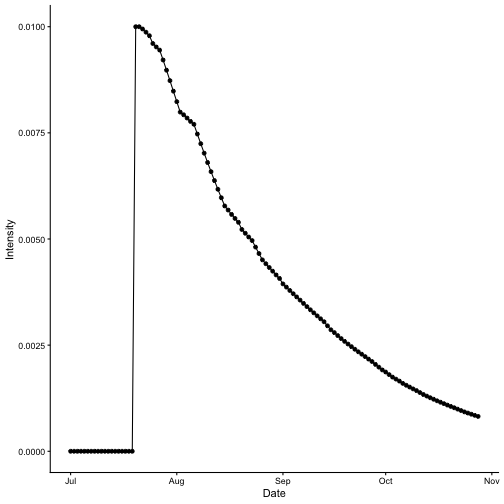
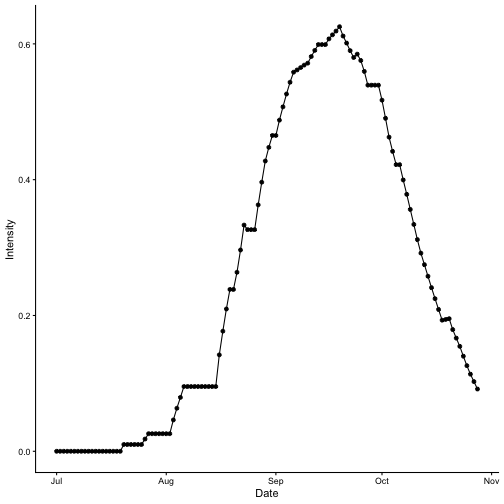
update seir() to fix bug where disease did not progress properly

diff --git a/tests/testthat/_snaps/disease_models_wheat.md b/tests/testthat/_snaps/disease_models_wheat.md
@@ -16,7 +16,7 @@
         "AUDPC": {
           "type": "double",
           "attributes": {},
-          "value": [1.63069954]
+          "value": [60.91294815]
         },
         "class": {
           "type": "character",
@@ -38,32 +38,22 @@
         {
           "type": "double",
           "attributes": {},
-          "value": [250, 250, 250, 250, 250, 250, 250, 250, 250, 250, 250, 250, 250, 250, 250, 250, 250, 250, 250, 240, 240, 239.9959, 239.9832, 239.96, 239.96, 239.919, 239.8647, 239.8647, 239.8647, 239.8647, 239.8647, 239.8647, 239.8647, 239.7873, 239.7023, 239.6177, 239.5421, 239.5421, 239.5421, 239.5421, 239.5421, 239.5421, 239.5421, 239.5421, 239.5421, 239.5421, 239.503, 239.4703, 239.4342, 239.3982, 239.3982, 239.365, 239.3338, 239.3009, 239.3009, 239.3009, 239.3009, 239.2803, 239.2605, 239.2409, 239.223, 239.2043, 239.2043, 239.1846, 239.1645, 239.1474, 239.1304, 239.116, 239.1032, 239.0911, 239.0788, 239.0668, 239.055, 239.043, 239.0317, 239.0317, 239.0317, 239.0228, 239.0172, 239.0123, 239.0058, 238.9993, 238.9929, 238.9873, 238.9813, 238.9754, 238.97, 238.9664, 238.9623, 238.9623, 238.9623, 238.9623, 238.9584, 238.9584, 238.9584, 238.9555, 238.9525, 238.9525, 238.9499, 238.9475, 238.9452, 238.943, 238.943, 238.943, 238.9414, 238.9398, 238.9385, 238.9371, 238.9358, 238.9346, 238.9335, 238.9323, 238.9313, 238.9313, 238.9313, 238.9313, 238.9305, 238.9298, 238.9291, 238.9284]
+          "value": [250, 250, 250, 250, 250, 250, 250, 250, 250, 250, 250, 250, 250, 250, 250, 250, 250, 250, 250, 240, 240, 240, 240, 240, 240, 240, 240, 240, 240, 240, 240, 240, 240, 235.7334, 231.1068, 226.5554, 222.5098, 222.5098, 222.5098, 222.5098, 222.5098, 222.5098, 222.5098, 222.5098, 222.5098, 222.5098, 214.5776, 207.8569, 200.2861, 192.6338, 192.6338, 185.1689, 178.0513, 170.4744, 170.4744, 170.4744, 170.4744, 158.83, 149.7337, 139.3953, 128.9001, 116.8571, 116.8571, 104.1069, 91.8183, 80.4957, 68.9562, 59.0688, 50.2706, 42.0487, 34.6688, 27.7032, 21.6587, 16.3249, 12.1342, 12.1342, 12.1342, 8.828, 7.1918, 5.8709, 4.3491, 3.1104, 2.1757, 1.5649, 1.0679, 0.7265, 0.5023, 0.3977, 0.3015, 0.3015, 0.3015, 0.3015, 0.2225, 0.2225, 0.2225, 0.1703, 0.129, 0.129, 0.1026, 0.0832, 0.0686, 0.0567, 0.0567, 0.0567, 0.0505, 0.0457, 0.0423, 0.0394, 0.0372, 0.0355, 0.0341, 0.033, 0.0323, 0.0323, 0.0323, 0.0323, 0.0319, 0.0316, 0.0313, 0.0312]
         },
         {
           "type": "double",
           "attributes": {},
-          "value": [0, 0, 0, 0, 0, 0, 0, 0, 0, 0, 0, 0, 0, 0, 0, 0, 0, 0, 0, 10, 8.5714, 7.351, 6.3136, 5.4349, 4.6585, 4.0339, 3.512, 3.0103, 2.5802, 2.2116, 1.8957, 1.6249, 1.3927, 1.2711, 1.1746, 1.0914, 1.0111, 0.8667, 0.7429, 0.6367, 0.5458, 0.4678, 0.401, 0.3437, 0.2946, 0.2525, 0.2555, 0.2517, 0.2518, 0.2519, 0.2159, 0.2182, 0.2183, 0.2199, 0.1885, 0.1616, 0.1385, 0.1393, 0.1393, 0.1389, 0.137, 0.1362, 0.1167, 0.1197, 0.1228, 0.1223, 0.1218, 0.1188, 0.1147, 0.1104, 0.1069, 0.1037, 0.1006, 0.0982, 0.0955, 0.0819, 0.0702, 0.0691, 0.0647, 0.0605, 0.0583, 0.0565, 0.0548, 0.0526, 0.0511, 0.0496, 0.048, 0.0447, 0.0424, 0.0364, 0.0312, 0.0267, 0.0268, 0.023, 0.0197, 0.0198, 0.0199, 0.0171, 0.0172, 0.0172, 0.0171, 0.0168, 0.0144, 0.0123, 0.0122, 0.0121, 0.0117, 0.0114, 0.011, 0.0106, 0.0103, 0.0099, 0.0096, 0.0082, 0.007, 0.006, 0.0059, 0.0058, 0.0057, 0.0056]
+          "value": [0, 0, 0, 0, 0, 0, 0, 0, 0, 0, 0, 0, 0, 0, 0, 0, 0, 0, 0, 10, 10, 10, 10, 10, 10, 10, 0, 0, 0, 0, 0, 0, 0, 4.2666, 8.8932, 13.4446, 17.4902, 17.4902, 17.4902, 17.4902, 13.2236, 8.5969, 4.0455, 0, 0, 0, 7.9322, 14.653, 22.2237, 29.876, 29.876, 37.3409, 44.4586, 44.1032, 37.3825, 29.8118, 22.1595, 33.8038, 35.4353, 38.656, 41.5743, 53.6173, 53.6173, 66.3675, 67.0118, 69.238, 70.4391, 69.8313, 66.5865, 74.8083, 69.4381, 64.1151, 58.837, 52.6313, 46.9346, 38.1364, 29.9146, 25.8408, 20.5114, 15.7878, 11.9758, 9.0238, 9.9585, 10.5692, 7.7602, 6.4653, 5.3686, 3.9514, 2.8088, 1.8742, 1.2634, 0.7663, 0.504, 0.2798, 0.1752, 0.1312, 0.1725, 0.1725, 0.1989, 0.1393, 0.1539, 0.1658, 0.1136, 0.0723, 0.0785, 0.057, 0.0408, 0.0292, 0.0195, 0.0212, 0.0226, 0.0175, 0.0134, 0.0101, 0.0071, 0.0049, 0.0036, 0.0025, 0.0017, 0.0011]
         },
         {
           "type": "double",
           "attributes": {},
-          "value": [0, 0, 0, 0, 0, 0, 0, 0, 0, 0, 0, 0, 0, 0, 0, 0, 0, 0, 0, 0, 1.4286, 2.607, 3.573, 4.3597, 4.9955, 5.4998, 5.8987, 6.2101, 6.4398, 6.6007, 6.7037, 6.7583, 6.7724, 6.7529, 6.7167, 6.6678, 6.6086, 6.5399, 6.4527, 6.3507, 6.2368, 6.1136, 5.9832, 5.8475, 5.7079, 5.5659, 5.4224, 5.284, 5.1495, 5.0194, 4.8934, 4.7664, 4.6438, 4.5252, 4.4107, 4.2953, 4.1798, 4.0648, 3.9536, 3.8459, 3.7417, 3.6406, 3.5426, 3.445, 3.351, 3.2604, 3.1727, 3.0878, 3.0051, 2.9246, 2.846, 2.7695, 2.6949, 2.6224, 2.5518, 2.4831, 2.4147, 2.3469, 2.281, 2.2167, 2.1538, 2.0927, 2.0332, 1.9755, 1.9193, 1.8647, 1.8116, 1.76, 1.7096, 1.6605, 1.6122, 1.5646, 1.518, 1.4728, 1.4286, 1.3853, 1.3434, 1.303, 1.2634, 1.2251, 1.188, 1.1521, 1.1174, 1.0834, 1.0502, 1.0181, 0.9869, 0.9568, 0.9275, 0.8992, 0.8717, 0.845, 0.8192, 0.7941, 0.7697, 0.7459, 0.7227, 0.7002, 0.6785, 0.6574]
+          "value": [0, 0, 0, 0, 0, 0, 0, 0, 0, 0, 0, 0, 0, 0, 0, 0, 0, 0, 0, 0, 0, 0, 0, 0, 0, 0, 10, 10, 10, 10, 10, 10, 10, 10, 10, 10, 10, 10, 10, 10, 14.2666, 18.8932, 23.4446, 27.4902, 27.4902, 27.4902, 27.4902, 27.4902, 27.4902, 27.4902, 27.4902, 27.4902, 27.4902, 35.4224, 42.1431, 49.7139, 57.3662, 47.3662, 54.8311, 61.9487, 69.5256, 69.5256, 69.5256, 69.5256, 81.17, 90.2663, 100.6047, 111.0999, 123.1429, 123.1429, 135.8931, 143.9152, 150.6111, 157.5991, 163.441, 172.2393, 180.4611, 187.841, 194.8066, 200.8511, 206.185, 210.3757, 210.3757, 210.3757, 205.7496, 200.6651, 194.4153, 188.2848, 189.5235, 182.9932, 176.4864, 169.4065, 169.7479, 169.9721, 170.0767, 158.5285, 149.4322, 139.0938, 128.5986, 116.6346, 116.6346, 103.8844, 91.6479, 80.3666, 68.8272, 58.9662, 50.1874, 41.9801, 34.6121, 27.6465, 21.602, 16.2744, 12.0885, 12.0918, 12.0948, 8.7909, 7.1563, 5.8367, 4.316, 3.0781]
         },
         {
           "type": "double",
           "attributes": {},
-          "value": [0, 0, 0, 0, 0, 0, 0, 0, 0, 0, 0, 0, 0, 0, 0, 0, 0, 0, 0, 0, 0, 0.0461, 0.1302, 0.2454, 0.3861, 0.5472, 0.7246, 0.9149, 1.1152, 1.323, 1.5359, 1.7522, 1.9702, 2.1886, 2.4065, 2.6231, 2.8382, 3.0514, 3.2624, 3.4705, 3.6754, 3.8766, 4.0738, 4.2668, 4.4554, 4.6395, 4.8191, 4.994, 5.1644, 5.3306, 5.4925, 5.6503, 5.8041, 5.9539, 6.0999, 6.2421, 6.3807, 6.5155, 6.6467, 6.7742, 6.8983, 7.019, 7.1364, 7.2507, 7.3618, 7.4699, 7.5751, 7.6774, 7.777, 7.874, 7.9683, 8.0601, 8.1494, 8.2364, 8.321, 8.4033, 8.4834, 8.5613, 8.637, 8.7106, 8.7821, 8.8516, 8.9191, 8.9847, 9.0484, 9.1103, 9.1704, 9.2289, 9.2857, 9.3408, 9.3944, 9.4464, 9.4968, 9.5458, 9.5933, 9.6394, 9.6841, 9.7274, 9.7695, 9.8102, 9.8497, 9.8881, 9.9252, 9.9613, 9.9962, 10.0301, 10.0629, 10.0948, 10.1256, 10.1556, 10.1846, 10.2127, 10.2399, 10.2664, 10.292, 10.3168, 10.3409, 10.3642, 10.3868, 10.4087]
-        },
-        {
-          "type": "double",
-          "attributes": {},
-          "value": [0, 0, 0, 0, 0, 0, 0, 0, 0, 0, 0, 0, 0, 0, 0, 0, 0, 0, 0, 0, 0, 0, 0, 0, 0, 0, 0, 0, 0, 0, 0, 0, 0, 0, 0, 0, 0, 0, 0, 0, 0, 0, 0, 0, 0, 0, 0, 0, 0, 0, 0, 0, 0, 0, 0, 0, 0, 0, 0, 0, 0, 0, 0, 0, 0, 0, 0, 0, 0, 0, 0, 0, 0, 0, 0, 0, 0, 0, 0, 0, 0, 0, 0, 0, 0, 0, 0, 0, 0, 0, 0, 0, 0, 0, 0, 0, 0, 0, 0, 0, 0, 0, 0, 0, 0, 0, 0, 0, 0, 0, 0, 0, 0, 0, 0, 0, 0, 0, 0, 0]
-        },
-        {
-          "type": "double",
-          "attributes": {},
-          "value": [0, 0, 0, 0, 0, 0, 0, 0, 0, 0, 0, 0, 0, 0, 0, 0, 0, 0, 0, 10, 0, 0.0041, 0.0127, 0.0232, 0, 0.041, 0.0543, 0, 0, 0, 0, 0, 0, 0.0774, 0.0851, 0.0846, 0.0757, 0, 0, 0, 0, 0, 0, 0, 0, 0, 0.0391, 0.0326, 0.0361, 0.036, 0, 0.0331, 0.0312, 0.0329, 0, 0, 0, 0.0206, 0.0198, 0.0196, 0.0179, 0.0188, 0, 0.0197, 0.0202, 0.0171, 0.0169, 0.0144, 0.0128, 0.0121, 0.0123, 0.0121, 0.0117, 0.012, 0.0113, 0, 0, 0.0089, 0.0055, 0.005, 0.0064, 0.0065, 0.0064, 0.0056, 0.006, 0.0058, 0.0055, 0.0036, 0.0041, 0, 0, 0, 0.0039, 0, 0, 0.0029, 0.003, 0, 0.0026, 0.0024, 0.0023, 0.0022, 0, 0, 0.0016, 0.0016, 0.0013, 0.0014, 0.0013, 0.0012, 0.0011, 0.0012, 0.001, 0, 0, 0, 0.0008, 0.0008, 0.0007, 0.0007]
+          "value": [0, 0, 0, 0, 0, 0, 0, 0, 0, 0, 0, 0, 0, 0, 0, 0, 0, 0, 0, 0, 0, 0, 0, 0, 0, 0, 0, 0, 0, 0, 0, 0, 0, 0, 0, 0, 0, 0, 0, 0, 0, 0, 0, 0, 0, 0, 0, 0, 0, 0, 0, 0, 0, 0, 0, 0, 0, 10, 10, 10, 10, 10, 10, 10, 10, 10, 10, 10, 10, 10, 10, 14.2666, 18.8932, 23.4446, 27.4902, 27.4902, 27.4902, 27.4902, 27.4902, 27.4902, 27.4902, 27.4902, 27.4902, 27.4902, 35.4224, 42.1431, 49.7139, 57.3662, 57.3662, 64.8311, 71.9487, 79.5256, 79.5256, 79.5256, 79.5256, 91.17, 100.2663, 110.6047, 121.0999, 133.1429, 133.1429, 145.8931, 158.1817, 169.5043, 181.0438, 190.9312, 199.7294, 207.9513, 215.3312, 222.2968, 228.3413, 233.6751, 237.8658, 237.8658, 237.8658, 241.172, 242.8082, 244.1291, 245.6509, 246.8896]
         },
         {
           "type": "double",
@@ -73,12 +63,22 @@
         {
           "type": "double",
           "attributes": {},
-          "value": [0, 0, 0, 0, 0, 0, 0, 0, 0, 0, 0, 0, 0, 0, 0, 0, 0, 0, 0, 0, 1.4286, 1.2245, 1.0501, 0.9019, 0.7764, 0.6655, 0.5763, 0.5017, 0.43, 0.3686, 0.3159, 0.2708, 0.2321, 0.199, 0.1816, 0.1678, 0.1559, 0.1444, 0.1238, 0.1061, 0.091, 0.078, 0.0668, 0.0573, 0.0491, 0.0421, 0.0361, 0.0365, 0.036, 0.036, 0.036, 0.0308, 0.0312, 0.0312, 0.0314, 0.0269, 0.0231, 0.0198, 0.0199, 0.0199, 0.0198, 0.0196, 0.0195, 0.0167, 0.0171, 0.0175, 0.0175, 0.0174, 0.017, 0.0164, 0.0158, 0.0153, 0.0148, 0.0144, 0.014, 0.0136, 0.0117, 0.01, 0.0099, 0.0092, 0.0086, 0.0083, 0.0081, 0.0078, 0.0075, 0.0073, 0.0071, 0.0069, 0.0064, 0.0061, 0.0052, 0.0045, 0.0038, 0.0038, 0.0033, 0.0028, 0.0028, 0.0028, 0.0024, 0.0025, 0.0025, 0.0024, 0.0024, 0.0021, 0.0018, 0.0017, 0.0017, 0.0017, 0.0016, 0.0016, 0.0015, 0.0015, 0.0014, 0.0014, 0.0012, 0.001, 0.0009, 0.0008, 0.0008, 0.0008]
+          "value": [0, 0, 0, 0, 0, 0, 0, 0, 0, 0, 0, 0, 0, 0, 0, 0, 0, 0, 0, 10, 0, 0, 0, 0, 0, 0, 0, 0, 0, 0, 0, 0, 0, 4.2666, 4.6267, 4.5514, 4.0455, 0, 0, 0, 0, 0, 0, 0, 0, 0, 7.9322, 6.7207, 7.5707, 7.6523, 0, 7.4649, 7.1177, 7.5769, 0, 0, 0, 11.6443, 9.0964, 10.3384, 10.4952, 12.043, 0, 12.7502, 12.2886, 11.3226, 11.5395, 9.8874, 8.7982, 8.2218, 7.3799, 6.9656, 6.0445, 5.3338, 4.1907, 0, 0, 3.3061, 1.6362, 1.321, 1.5218, 1.2387, 0.9347, 0.6108, 0.4971, 0.3414, 0.2242, 0.1046, 0.0962, 0, 0, 0, 0.079, 0, 0, 0.0521, 0.0413, 0, 0.0264, 0.0194, 0.0146, 0.0119, 0, 0, 0.0062, 0.0048, 0.0033, 0.003, 0.0022, 0.0017, 0.0013, 0.0011, 0.0008, 0, 0, 0, 0.0004, 0.0003, 0.0002, 0.0002]
         },
         {
           "type": "double",
           "attributes": {},
-          "value": [0, 0, 0, 0, 0, 0, 0, 0, 0, 0, 0, 0, 0, 0, 0, 0, 0, 0, 0, 0, 0, 0.0461, 0.0841, 0.1153, 0.1406, 0.1611, 0.1774, 0.1903, 0.2003, 0.2077, 0.2129, 0.2162, 0.218, 0.2185, 0.2178, 0.2167, 0.2151, 0.2132, 0.211, 0.2082, 0.2049, 0.2012, 0.1972, 0.193, 0.1886, 0.1841, 0.1795, 0.1749, 0.1705, 0.1661, 0.1619, 0.1579, 0.1538, 0.1498, 0.146, 0.1423, 0.1386, 0.1348, 0.1311, 0.1275, 0.1241, 0.1207, 0.1174, 0.1143, 0.1111, 0.1081, 0.1052, 0.1023, 0.0996, 0.0969, 0.0943, 0.0918, 0.0893, 0.0869, 0.0846, 0.0823, 0.0801, 0.0779, 0.0757, 0.0736, 0.0715, 0.0695, 0.0675, 0.0656, 0.0637, 0.0619, 0.0602, 0.0584, 0.0568, 0.0551, 0.0536, 0.052, 0.0505, 0.049, 0.0475, 0.0461, 0.0447, 0.0433, 0.042, 0.0408, 0.0395, 0.0383, 0.0372, 0.036, 0.0349, 0.0339, 0.0328, 0.0318, 0.0309, 0.0299, 0.029, 0.0281, 0.0273, 0.0264, 0.0256, 0.0248, 0.0241, 0.0233, 0.0226, 0.0219]
+          "value": [0, 0, 0, 0, 0, 0, 0, 0, 0, 0, 0, 0, 0, 0, 0, 0, 0, 0, 0, 0, 0, 0, 0, 0, 0, 0, 0, 0, 0, 0, 0, 0, 0, 0, 0, 0, 0, 0, 0, 0, 0, 0, 0, 0, 0, 0, 0, 0, 0, 0, 0, 0, 0, 0, 0, 0, 0, 0, 0, 0, 0, 0, 0, 0, 0, 0, 0, 0, 0, 0, 0, 0, 0, 0, 0, 0, 0, 0, 0, 0, 0, 0, 0, 0, 0, 0, 0, 0, 0, 0, 0, 0, 0, 0, 0, 0, 0, 0, 0, 0, 0, 0, 0, 0, 0, 0, 0, 0, 0, 0, 0, 0, 0, 0, 0, 0, 0, 0, 0, 0]
+        },
+        {
+          "type": "double",
+          "attributes": {},
+          "value": [0, 0, 0, 0, 0, 0, 0, 0, 0, 0, 0, 0, 0, 0, 0, 0, 0, 0, 0, 0, 0, 0, 0, 0, 0, 0, 10, 0, 0, 0, 0, 0, 0, 0, 0, 0, 0, 0, 0, 0, 4.2666, 4.6267, 4.5514, 4.0455, 0, 0, 0, 0, 0, 0, 0, 0, 0, 7.9322, 6.7207, 7.5707, 7.6523, 0, 7.4649, 7.1177, 7.5769, 0, 0, 0, 11.6443, 9.0964, 10.3384, 10.4952, 12.043, 0, 12.7502, 12.2886, 11.3226, 11.5395, 9.8874, 8.7982, 8.2218, 7.3799, 6.9656, 6.0445, 5.3338, 4.1907, 0, 0, 3.3061, 1.6362, 1.321, 1.5218, 1.2387, 0.9347, 0.6108, 0.4971, 0.3414, 0.2242, 0.1046, 0.0962, 0, 0, 0, 0.079, 0, 0, 0.0521, 0.0413, 0, 0.0264, 0.0194, 0.0146, 0.0119, 0, 0, 0.0062, 0.0048, 0.0033, 0.003, 0.0022, 0.0017, 0.0013, 0.0011, 0.0008]
+        },
+        {
+          "type": "double",
+          "attributes": {},
+          "value": [0, 0, 0, 0, 0, 0, 0, 0, 0, 0, 0, 0, 0, 0, 0, 0, 0, 0, 0, 0, 0, 0, 0, 0, 0, 0, 0, 0, 0, 0, 0, 0, 0, 0, 0, 0, 0, 0, 0, 0, 0, 0, 0, 0, 0, 0, 0, 0, 0, 0, 0, 0, 0, 0, 0, 0, 0, 10, 0, 0, 0, 0, 0, 0, 0, 0, 0, 0, 0, 0, 0, 4.2666, 4.6267, 4.5514, 4.0455, 0, 0, 0, 0, 0, 0, 0, 0, 0, 7.9322, 6.7207, 7.5707, 7.6523, 0, 7.4649, 7.1177, 7.5769, 0, 0, 0, 11.6443, 9.0964, 10.3384, 10.4952, 12.043, 0, 12.7502, 12.2886, 11.3226, 11.5395, 9.8874, 8.7982, 8.2218, 7.3799, 6.9656, 6.0445, 5.3338, 4.1907, 0, 0, 3.3061, 1.6362, 1.321, 1.5218, 1.2387]
         },
         {
           "type": "double",
@@ -93,12 +93,12 @@
         {
           "type": "double",
           "attributes": {},
-          "value": [0, 0, 0, 0, 0, 0, 0, 0, 0, 0, 0, 0, 0, 0, 0, 0, 0, 0, 0, 10, 10, 10.0041, 10.0168, 10.04, 10.04, 10.081, 10.1353, 10.1353, 10.1353, 10.1353, 10.1353, 10.1353, 10.1353, 10.2127, 10.2977, 10.3823, 10.4579, 10.4579, 10.4579, 10.4579, 10.4579, 10.4579, 10.4579, 10.4579, 10.4579, 10.4579, 10.497, 10.5297, 10.5658, 10.6018, 10.6018, 10.635, 10.6662, 10.6991, 10.6991, 10.6991, 10.6991, 10.7197, 10.7395, 10.7591, 10.777, 10.7957, 10.7957, 10.8154, 10.8355, 10.8526, 10.8696, 10.884, 10.8968, 10.9089, 10.9212, 10.9332, 10.945, 10.957, 10.9683, 10.9683, 10.9683, 10.9772, 10.9828, 10.9877, 10.9942, 11.0007, 11.0071, 11.0127, 11.0187, 11.0246, 11.03, 11.0336, 11.0377, 11.0377, 11.0377, 11.0377, 11.0416, 11.0416, 11.0416, 11.0445, 11.0475, 11.0475, 11.0501, 11.0525, 11.0548, 11.057, 11.057, 11.057, 11.0586, 11.0602, 11.0615, 11.0629, 11.0642, 11.0654, 11.0665, 11.0677, 11.0687, 11.0687, 11.0687, 11.0687, 11.0695, 11.0702, 11.0709, 11.0716]
+          "value": [0, 0, 0, 0, 0, 0, 0, 0, 0, 0, 0, 0, 0, 0, 0, 0, 0, 0, 0, 10, 10, 10, 10, 10, 10, 10, 10, 10, 10, 10, 10, 10, 10, 14.2666, 18.8932, 23.4446, 27.4902, 27.4902, 27.4902, 27.4902, 27.4902, 27.4902, 27.4902, 27.4902, 27.4902, 27.4902, 35.4224, 42.1431, 49.7139, 57.3662, 57.3662, 64.8311, 71.9487, 79.5256, 79.5256, 79.5256, 79.5256, 91.17, 100.2663, 110.6047, 121.0999, 133.1429, 133.1429, 145.8931, 158.1817, 169.5043, 181.0438, 190.9312, 199.7294, 207.9513, 215.3312, 222.2968, 228.3413, 233.6751, 237.8658, 237.8658, 237.8658, 241.172, 242.8082, 244.1291, 245.6509, 246.8896, 247.8243, 248.4351, 248.9321, 249.2735, 249.4977, 249.6023, 249.6985, 249.6985, 249.6985, 249.6985, 249.7775, 249.7775, 249.7775, 249.8297, 249.871, 249.871, 249.8974, 249.9168, 249.9314, 249.9433, 249.9433, 249.9433, 249.9495, 249.9543, 249.9577, 249.9606, 249.9628, 249.9645, 249.9659, 249.967, 249.9677, 249.9677, 249.9677, 249.9677, 249.9681, 249.9684, 249.9687, 249.9688]
         },
         {
           "type": "double",
           "attributes": {},
-          "value": [0, 0, 0, 0, 0, 0, 0, 0, 0, 0, 0, 0, 0, 0, 0, 0, 0, 0, 0, 0.04, 0.04, 0.0398, 0.0396, 0.0392, 0.0387, 0.0382, 0.0378, 0.037, 0.0362, 0.0354, 0.0346, 0.0338, 0.0329, 0.0324, 0.0319, 0.0314, 0.0308, 0.03, 0.0292, 0.0283, 0.0275, 0.0267, 0.026, 0.0252, 0.0244, 0.0237, 0.0232, 0.0226, 0.0221, 0.0215, 0.0209, 0.0204, 0.0199, 0.0194, 0.0189, 0.0183, 0.0177, 0.0173, 0.0168, 0.0164, 0.016, 0.0155, 0.0151, 0.0147, 0.0143, 0.0139, 0.0136, 0.0132, 0.0129, 0.0125, 0.0122, 0.0119, 0.0116, 0.0113, 0.011, 0.0106, 0.0103, 0.01, 0.0097, 0.0094, 0.0092, 0.0089, 0.0087, 0.0084, 0.0082, 0.0079, 0.0077, 0.0075, 0.0073, 0.0071, 0.0068, 0.0066, 0.0064, 0.0062, 0.006, 0.0058, 0.0057, 0.0055, 0.0053, 0.0052, 0.005, 0.0049, 0.0047, 0.0046, 0.0044, 0.0043, 0.0042, 0.004, 0.0039, 0.0038, 0.0037, 0.0036, 0.0035, 0.0033, 0.0032, 0.0031, 0.003, 0.0029, 0.0029, 0.0028]
+          "value": [0, 0, 0, 0, 0, 0, 0, 0, 0, 0, 0, 0, 0, 0, 0, 0, 0, 0, 0, 0.04, 0.04, 0.04, 0.04, 0.04, 0.04, 0.04, 0.04, 0.04, 0.04, 0.04, 0.04, 0.04, 0.04, 0.0571, 0.0756, 0.0938, 0.11, 0.11, 0.11, 0.11, 0.11, 0.11, 0.11, 0.11, 0.11, 0.11, 0.1417, 0.1686, 0.1989, 0.2295, 0.2295, 0.2593, 0.2878, 0.3181, 0.3181, 0.3181, 0.3181, 0.3382, 0.3761, 0.4192, 0.4629, 0.5131, 0.5131, 0.5662, 0.6174, 0.6646, 0.7127, 0.7539, 0.7905, 0.8248, 0.8555, 0.8825, 0.9063, 0.9279, 0.9455, 0.9455, 0.9455, 0.9603, 0.9677, 0.9736, 0.9805, 0.986, 0.9902, 0.993, 0.995, 0.9965, 0.9975, 0.9979, 0.9984, 0.9984, 0.9983, 0.9982, 0.9987, 0.9987, 0.9987, 0.9989, 0.9991, 0.9991, 0.9992, 0.9993, 0.9994, 0.9995, 0.9994, 0.9993, 0.9993, 0.9992, 0.9992, 0.9991, 0.9989, 0.9987, 0.9984, 0.998, 0.9973, 0.9973, 0.9973, 0.9963, 0.9956, 0.9946, 0.9928, 0.99]
         },
         {
           "type": "double",

diff --git a/tests/testthat/_snaps/disease_models_rice.md b/tests/testthat/_snaps/disease_models_rice.md
@@ -16,7 +16,7 @@
         "AUDPC": {
           "type": "double",
           "attributes": {},
-          "value": [0.41997808]
+          "value": [31.07247558]
         },
         "class": {
           "type": "character",
@@ -38,32 +38,22 @@
         {
           "type": "double",
           "attributes": {},
-          "value": [100, 100, 100, 100, 100, 100, 100, 100, 100, 100, 100, 100, 100, 100, 100, 100, 100, 100, 100, 99, 99, 98.9988, 98.9947, 98.9874, 98.9874, 98.9749, 98.9602, 98.9602, 98.9602, 98.9602, 98.9602, 98.9602, 98.9602, 98.9421, 98.9259, 98.9102, 98.8938, 98.8938, 98.8938, 98.8938, 98.8938, 98.8938, 98.8938, 98.8938, 98.8938, 98.8938, 98.8847, 98.8768, 98.8685, 98.8603, 98.8603, 98.8527, 98.8454, 98.838, 98.838, 98.838, 98.838, 98.8327, 98.8276, 98.8226, 98.8179, 98.8132, 98.8132, 98.8084, 98.8041, 98.7998, 98.7957, 98.7919, 98.7885, 98.7852, 98.7819, 98.7787, 98.7755, 98.7725, 98.7696, 98.7696, 98.7696, 98.7671, 98.7653, 98.7636, 98.7617, 98.7598, 98.7579, 98.7562, 98.7544, 98.7527, 98.7511, 98.7499, 98.7486, 98.7486, 98.7486, 98.7486, 98.7474, 98.7474, 98.7474, 98.7465, 98.7455, 98.7455, 98.7447, 98.744, 98.7433, 98.7426, 98.7426, 98.7426, 98.742, 98.7415, 98.7411, 98.7406, 98.7402, 98.7398, 98.7394, 98.7391, 98.7387, 98.7387, 98.7387, 98.7387, 98.7385, 98.7382, 98.738, 98.7378]
+          "value": [100, 100, 100, 100, 100, 100, 100, 100, 100, 100, 100, 100, 100, 100, 100, 100, 100, 100, 100, 99, 99, 99, 99, 99, 99, 98.1963, 97.4104, 97.4104, 97.4104, 97.4104, 97.4104, 97.4104, 97.4104, 95.3848, 93.6602, 92.0668, 90.4642, 90.4642, 90.4642, 90.4642, 90.4642, 90.4642, 90.4642, 90.4642, 90.4642, 90.4642, 85.7995, 82.3123, 79.0447, 76.1647, 76.1647, 73.6385, 70.3565, 66.6876, 66.6876, 66.6876, 66.6876, 63.0735, 59.768, 56.6799, 54.24, 52.1066, 52.1066, 49.9075, 47.997, 46.1565, 44.4688, 43.026, 41.8133, 40.7344, 39.7106, 38.7568, 37.8744, 37.0517, 36.2767, 36.2767, 36.2767, 35.5175, 34.9807, 34.4815, 33.8984, 33.328, 32.8297, 32.4064, 31.9944, 31.6166, 31.2539, 30.9943, 30.7315, 30.7315, 30.7315, 30.7315, 30.4589, 30.4589, 30.4589, 30.2812, 30.1121, 30.1121, 29.9639, 29.8333, 29.7159, 29.612, 29.612, 29.612, 29.5402, 29.4737, 29.4179, 29.3629, 29.3149, 29.2728, 29.2335, 29.1922, 29.1518, 29.1518, 29.1518, 29.1518, 29.1259, 29.1017, 29.0811, 29.0621]
         },
         {
           "type": "double",
           "attributes": {},
-          "value": [0, 0, 0, 0, 0, 0, 0, 0, 0, 0, 0, 0, 0, 0, 0, 0, 0, 0, 0, 1, 0.8, 0.6412, 0.5171, 0.4209, 0.3367, 0.282, 0.2402, 0.1922, 0.1537, 0.123, 0.0984, 0.0787, 0.063, 0.0685, 0.071, 0.0725, 0.0744, 0.0595, 0.0476, 0.0381, 0.0305, 0.0244, 0.0195, 0.0156, 0.0125, 0.01, 0.0171, 0.0216, 0.0256, 0.0287, 0.0229, 0.026, 0.028, 0.0299, 0.0239, 0.0191, 0.0153, 0.0175, 0.0191, 0.0203, 0.0209, 0.0214, 0.0171, 0.0185, 0.0191, 0.0196, 0.0198, 0.0196, 0.0191, 0.0186, 0.0182, 0.0178, 0.0174, 0.0169, 0.0164, 0.0131, 0.0105, 0.0109, 0.0105, 0.0101, 0.01, 0.0099, 0.0098, 0.0096, 0.0094, 0.0092, 0.009, 0.0084, 0.008, 0.0064, 0.0051, 0.0041, 0.0045, 0.0036, 0.0029, 0.0032, 0.0035, 0.0028, 0.003, 0.0032, 0.0033, 0.0033, 0.0026, 0.0021, 0.0022, 0.0023, 0.0023, 0.0023, 0.0022, 0.0022, 0.0021, 0.0021, 0.002, 0.0016, 0.0013, 0.001, 0.0011, 0.0011, 0.0011, 0.0011]
+          "value": [0, 0, 0, 0, 0, 0, 0, 0, 0, 0, 0, 0, 0, 0, 0, 0, 0, 0, 0, 1, 1, 1, 1, 1, 0, 0.8037, 1.5896, 1.5896, 1.5896, 1.5896, 0.7859, 0, 0, 2.0256, 3.7502, 5.3436, 6.9462, 6.9462, 4.9206, 3.196, 1.6026, 0, 0, 0, 0, 0, 4.6647, 8.1519, 11.4195, 14.2994, 14.2994, 12.161, 11.9558, 12.3571, 9.4771, 9.4771, 6.9509, 7.2829, 6.9196, 10.0077, 12.4476, 14.581, 10.9669, 9.8605, 8.6829, 8.0835, 7.6378, 9.0806, 8.0942, 7.2626, 6.4459, 5.712, 5.1515, 4.7616, 4.4578, 3.4339, 2.4801, 2.3569, 2.071, 1.7952, 2.3783, 2.9487, 2.6879, 2.5743, 2.4871, 2.2817, 2.0741, 1.8353, 1.6749, 1.2629, 0.8851, 0.5223, 0.5354, 0.2726, 0.2726, 0.4504, 0.6194, 0.3468, 0.495, 0.6256, 0.5653, 0.5001, 0.5001, 0.3519, 0.2931, 0.2422, 0.1941, 0.2491, 0.2971, 0.2674, 0.2401, 0.2258, 0.2111, 0.163, 0.1209, 0.0817, 0.0662, 0.0502, 0.0707, 0.0897]
         },
         {
           "type": "double",
           "attributes": {},
-          "value": [0, 0, 0, 0, 0, 0, 0, 0, 0, 0, 0, 0, 0, 0, 0, 0, 0, 0, 0, 0, 0.2, 0.3533, 0.4698, 0.5576, 0.6232, 0.6697, 0.7038, 0.7284, 0.7425, 0.7485, 0.7482, 0.7429, 0.7339, 0.722, 0.7116, 0.7021, 0.6932, 0.685, 0.6741, 0.6611, 0.6467, 0.6312, 0.6151, 0.5985, 0.5816, 0.5647, 0.5479, 0.5331, 0.5196, 0.5074, 0.4962, 0.4843, 0.4733, 0.4632, 0.4537, 0.4433, 0.4324, 0.421, 0.4105, 0.4006, 0.3913, 0.3825, 0.374, 0.365, 0.3565, 0.3485, 0.3408, 0.3334, 0.3262, 0.3191, 0.3122, 0.3054, 0.2988, 0.2923, 0.2859, 0.2797, 0.273, 0.266, 0.2593, 0.2528, 0.2464, 0.2401, 0.2341, 0.2283, 0.2226, 0.2171, 0.2117, 0.2064, 0.2012, 0.1961, 0.1909, 0.1855, 0.1802, 0.1751, 0.1699, 0.1649, 0.16, 0.1554, 0.1507, 0.1463, 0.1421, 0.138, 0.1341, 0.1301, 0.1262, 0.1225, 0.1188, 0.1153, 0.1119, 0.1087, 0.1055, 0.1024, 0.0994, 0.0965, 0.0936, 0.0907, 0.0879, 0.0852, 0.0826, 0.08]
+          "value": [0, 0, 0, 0, 0, 0, 0, 0, 0, 0, 0, 0, 0, 0, 0, 0, 0, 0, 0, 0, 0, 0, 0, 0, 1, 1, 1, 1, 1, 1, 1.8037, 2.5896, 2.5896, 2.5896, 2.5896, 2.5896, 2.5896, 2.5896, 4.6152, 6.3398, 7.9332, 9.5358, 9.5358, 9.5358, 9.5358, 9.5358, 9.5358, 9.5358, 9.5358, 9.5358, 9.5358, 14.2005, 17.6877, 20.9553, 22.8353, 22.8353, 25.3615, 28.6435, 32.3124, 32.3124, 31.5087, 30.7228, 34.3369, 37.6424, 40.7304, 43.1704, 45.3038, 45.3038, 45.4772, 45.6632, 45.9103, 45.9954, 47.4382, 48.6508, 49.7297, 50.7536, 51.7074, 52.5897, 53.4124, 54.1875, 54.1875, 49.5228, 46.7947, 44.064, 41.6832, 42.2664, 40.3105, 37.5268, 34.2812, 34.6932, 35.071, 35.4337, 32.0792, 29.0365, 25.9484, 23.5084, 21.375, 21.6477, 19.4486, 17.5381, 15.8753, 14.3566, 12.9139, 11.8494, 10.9011, 9.9947, 9.1448, 8.2625, 7.4397, 6.7365, 6.803, 6.8587, 6.1546, 5.6658, 5.2087, 4.6648, 4.1359, 3.6778, 3.2546, 2.8426]
         },
         {
           "type": "double",
           "attributes": {},
-          "value": [0, 0, 0, 0, 0, 0, 0, 0, 0, 0, 0, 0, 0, 0, 0, 0, 0, 0, 0, 0, 0, 0.0067, 0.0184, 0.0341, 0.0527, 0.0735, 0.0958, 0.1192, 0.1435, 0.1683, 0.1932, 0.2182, 0.2429, 0.2674, 0.2915, 0.3152, 0.3386, 0.3617, 0.3845, 0.407, 0.429, 0.4506, 0.4716, 0.4921, 0.5121, 0.5315, 0.5503, 0.5686, 0.5863, 0.6036, 0.6206, 0.6371, 0.6532, 0.669, 0.6845, 0.6996, 0.7144, 0.7288, 0.7428, 0.7565, 0.7698, 0.7829, 0.7956, 0.8081, 0.8203, 0.8322, 0.8438, 0.8551, 0.8662, 0.8771, 0.8878, 0.8982, 0.9083, 0.9183, 0.928, 0.9376, 0.9469, 0.956, 0.9649, 0.9735, 0.9819, 0.9901, 0.9981, 1.006, 1.0136, 1.021, 1.0282, 1.0353, 1.0422, 1.0489, 1.0554, 1.0618, 1.0679, 1.074, 1.0798, 1.0855, 1.0909, 1.0963, 1.1015, 1.1065, 1.1114, 1.1161, 1.1207, 1.1252, 1.1295, 1.1337, 1.1378, 1.1418, 1.1456, 1.1493, 1.153, 1.1565, 1.1599, 1.1632, 1.1664, 1.1695, 1.1726, 1.1755, 1.1783, 1.1811]
-        },
-        {
-          "type": "double",
-          "attributes": {},
-          "value": [0, 0, 0, 0, 0, 0, 0, 0, 0, 0, 0, 0, 0, 0, 0, 0, 0, 0, 0, 0, 0, 0, 0, 0, 0, 0, 0, 0, 0, 0, 0, 0, 0, 0, 0, 0, 0, 0, 0, 0, 0, 0, 0, 0, 0, 0, 0, 0, 0, 0, 0, 0, 0, 0, 0, 0, 0, 0, 0, 0, 0, 0, 0, 0, 0, 0, 0, 0, 0, 0, 0, 0, 0, 0, 0, 0, 0, 0, 0, 0, 0, 0, 0, 0, 0, 0, 0, 0, 0, 0, 0, 0, 0, 0, 0, 0, 0, 0, 0, 0, 0, 0, 0, 0, 0, 0, 0, 0, 0, 0, 0, 0, 0, 0, 0, 0, 0, 0, 0, 0]
-        },
-        {
-          "type": "double",
-          "attributes": {},
-          "value": [0, 0, 0, 0, 0, 0, 0, 0, 0, 0, 0, 0, 0, 0, 0, 0, 0, 0, 0, 1, 0, 0.0012, 0.0041, 0.0073, 0, 0.0126, 0.0146, 0, 0, 0, 0, 0, 0, 0.0181, 0.0162, 0.0157, 0.0164, 0, 0, 0, 0, 0, 0, 0, 0, 0, 0.0091, 0.0079, 0.0083, 0.0082, 0, 0.0076, 0.0072, 0.0075, 0, 0, 0, 0.0053, 0.0051, 0.005, 0.0046, 0.0047, 0, 0.0048, 0.0043, 0.0043, 0.0041, 0.0037, 0.0034, 0.0033, 0.0033, 0.0032, 0.0032, 0.003, 0.0029, 0, 0, 0.0025, 0.0018, 0.0017, 0.0019, 0.0019, 0.0019, 0.0017, 0.0018, 0.0017, 0.0016, 0.0012, 0.0013, 0, 0, 0, 0.0012, 0, 0, 0.0009, 0.0009, 0, 0.0008, 0.0008, 0.0007, 0.0007, 0, 0, 0.0005, 0.0005, 0.0004, 0.0005, 0.0004, 0.0004, 0.0004, 0.0004, 0.0003, 0, 0, 0, 0.0003, 0.0003, 0.0002, 0.0002]
+          "value": [0, 0, 0, 0, 0, 0, 0, 0, 0, 0, 0, 0, 0, 0, 0, 0, 0, 0, 0, 0, 0, 0, 0, 0, 0, 0, 0, 0, 0, 0, 0, 0, 0, 0, 0, 0, 0, 0, 0, 0, 0, 0, 0, 0, 0, 0, 0, 0, 0, 0, 0, 0, 0, 0, 1, 1, 1, 1, 1, 1, 1.8037, 2.5896, 2.5896, 2.5896, 2.5896, 2.5896, 2.5896, 2.5896, 4.6152, 6.3398, 7.9332, 9.5358, 9.5358, 9.5358, 9.5358, 9.5358, 9.5358, 9.5358, 9.5358, 9.5358, 9.5358, 14.2005, 17.6877, 20.9553, 23.8353, 23.8353, 26.3615, 29.6435, 33.3124, 33.3124, 33.3124, 33.3124, 36.9265, 40.232, 43.3201, 45.76, 47.8934, 47.8934, 50.0925, 52.003, 53.8435, 55.5312, 56.974, 58.1867, 59.2656, 60.2894, 61.2432, 62.1256, 62.9483, 63.7233, 63.7233, 63.7233, 64.4825, 65.0193, 65.5185, 66.1016, 66.672, 67.1703, 67.5936, 68.0056]
         },
         {
           "type": "double",
@@ -73,12 +63,22 @@
         {
           "type": "double",
           "attributes": {},
-          "value": [0, 0, 0, 0, 0, 0, 0, 0, 0, 0, 0, 0, 0, 0, 0, 0, 0, 0, 0, 0, 0.2, 0.16, 0.1282, 0.1034, 0.0842, 0.0673, 0.0564, 0.048, 0.0384, 0.0307, 0.0246, 0.0197, 0.0157, 0.0126, 0.0137, 0.0142, 0.0145, 0.0149, 0.0119, 0.0095, 0.0076, 0.0061, 0.0049, 0.0039, 0.0031, 0.0025, 0.002, 0.0034, 0.0043, 0.0051, 0.0057, 0.0046, 0.0052, 0.0056, 0.006, 0.0048, 0.0038, 0.0031, 0.0035, 0.0038, 0.0041, 0.0042, 0.0043, 0.0034, 0.0037, 0.0038, 0.0039, 0.004, 0.0039, 0.0038, 0.0037, 0.0036, 0.0036, 0.0035, 0.0034, 0.0033, 0.0026, 0.0021, 0.0022, 0.0021, 0.002, 0.002, 0.002, 0.002, 0.0019, 0.0019, 0.0018, 0.0018, 0.0017, 0.0016, 0.0013, 0.001, 0.0008, 0.0009, 0.0007, 0.0006, 0.0006, 0.0007, 0.0006, 0.0006, 0.0006, 0.0007, 0.0007, 0.0005, 0.0004, 0.0004, 0.0005, 0.0005, 0.0005, 0.0004, 0.0004, 0.0004, 0.0004, 0.0004, 0.0003, 0.0003, 0.0002, 0.0002, 0.0002, 0.0002]
+          "value": [0, 0, 0, 0, 0, 0, 0, 0, 0, 0, 0, 0, 0, 0, 0, 0, 0, 0, 0, 1, 0, 0, 0, 0, 0, 0.8037, 0.7859, 0, 0, 0, 0, 0, 0, 2.0256, 1.7246, 1.5934, 1.6026, 0, 0, 0, 0, 0, 0, 0, 0, 0, 4.6647, 3.4872, 3.2676, 2.88, 0, 2.5262, 3.282, 3.6688, 0, 0, 0, 3.6141, 3.3055, 3.0881, 2.44, 2.1334, 0, 2.199, 1.9105, 1.8405, 1.6877, 1.4428, 1.2127, 1.0789, 1.0239, 0.9537, 0.8824, 0.8227, 0.7751, 0, 0, 0.7592, 0.5368, 0.4992, 0.5832, 0.5703, 0.4984, 0.4232, 0.412, 0.3778, 0.3627, 0.2595, 0.2628, 0, 0, 0, 0.2726, 0, 0, 0.1778, 0.169, 0, 0.1482, 0.1306, 0.1174, 0.1039, 0, 0, 0.0718, 0.0665, 0.0557, 0.055, 0.048, 0.0421, 0.0392, 0.0414, 0.0403, 0, 0, 0, 0.0259, 0.0243, 0.0205, 0.019]
         },
         {
           "type": "double",
           "attributes": {},
-          "value": [0, 0, 0, 0, 0, 0, 0, 0, 0, 0, 0, 0, 0, 0, 0, 0, 0, 0, 0, 0, 0, 0.0067, 0.0118, 0.0157, 0.0186, 0.0208, 0.0223, 0.0235, 0.0243, 0.0248, 0.025, 0.0249, 0.0248, 0.0245, 0.0241, 0.0237, 0.0234, 0.0231, 0.0228, 0.0225, 0.022, 0.0216, 0.021, 0.0205, 0.0199, 0.0194, 0.0188, 0.0183, 0.0178, 0.0173, 0.0169, 0.0165, 0.0161, 0.0158, 0.0154, 0.0151, 0.0148, 0.0144, 0.014, 0.0137, 0.0134, 0.013, 0.0127, 0.0125, 0.0122, 0.0119, 0.0116, 0.0114, 0.0111, 0.0109, 0.0106, 0.0104, 0.0102, 0.01, 0.0097, 0.0095, 0.0093, 0.0091, 0.0089, 0.0086, 0.0084, 0.0082, 0.008, 0.0078, 0.0076, 0.0074, 0.0072, 0.0071, 0.0069, 0.0067, 0.0065, 0.0064, 0.0062, 0.006, 0.0058, 0.0057, 0.0055, 0.0053, 0.0052, 0.005, 0.0049, 0.0047, 0.0046, 0.0045, 0.0043, 0.0042, 0.0041, 0.004, 0.0038, 0.0037, 0.0036, 0.0035, 0.0034, 0.0033, 0.0032, 0.0031, 0.003, 0.0029, 0.0028, 0.0028]
+          "value": [0, 0, 0, 0, 0, 0, 0, 0, 0, 0, 0, 0, 0, 0, 0, 0, 0, 0, 0, 0, 0, 0, 0, 0, 0, 0, 0, 0, 0, 0, 0, 0, 0, 0, 0, 0, 0, 0, 0, 0, 0, 0, 0, 0, 0, 0, 0, 0, 0, 0, 0, 0, 0, 0, 0, 0, 0, 0, 0, 0, 0, 0, 0, 0, 0, 0, 0, 0, 0, 0, 0, 0, 0, 0, 0, 0, 0, 0, 0, 0, 0, 0, 0, 0, 0, 0, 0, 0, 0, 0, 0, 0, 0, 0, 0, 0, 0, 0, 0, 0, 0, 0, 0, 0, 0, 0, 0, 0, 0, 0, 0, 0, 0, 0, 0, 0, 0, 0, 0, 0]
+        },
+        {
+          "type": "double",
+          "attributes": {},
+          "value": [0, 0, 0, 0, 0, 0, 0, 0, 0, 0, 0, 0, 0, 0, 0, 0, 0, 0, 0, 0, 0, 0, 0, 0, 1, 0, 0, 0, 0, 0, 0.8037, 0.7859, 0, 0, 0, 0, 0, 0, 2.0256, 1.7246, 1.5934, 1.6026, 0, 0, 0, 0, 0, 0, 0, 0, 0, 4.6647, 3.4872, 3.2676, 2.88, 0, 2.5262, 3.282, 3.6688, 0, 0, 0, 3.6141, 3.3055, 3.0881, 2.44, 2.1334, 0, 2.199, 1.9105, 1.8405, 1.6877, 1.4428, 1.2127, 1.0789, 1.0239, 0.9537, 0.8824, 0.8227, 0.7751, 0, 0, 0.7592, 0.5368, 0.4992, 0.5832, 0.5703, 0.4984, 0.4232, 0.412, 0.3778, 0.3627, 0.2595, 0.2628, 0, 0, 0, 0.2726, 0, 0, 0.1778, 0.169, 0, 0.1482, 0.1306, 0.1174, 0.1039, 0, 0, 0.0718, 0.0665, 0.0557, 0.055, 0.048, 0.0421, 0.0392, 0.0414, 0.0403, 0, 0]
+        },
+        {
+          "type": "double",
+          "attributes": {},
+          "value": [0, 0, 0, 0, 0, 0, 0, 0, 0, 0, 0, 0, 0, 0, 0, 0, 0, 0, 0, 0, 0, 0, 0, 0, 0, 0, 0, 0, 0, 0, 0, 0, 0, 0, 0, 0, 0, 0, 0, 0, 0, 0, 0, 0, 0, 0, 0, 0, 0, 0, 0, 0, 0, 0, 1, 0, 0, 0, 0, 0, 0.8037, 0.7859, 0, 0, 0, 0, 0, 0, 2.0256, 1.7246, 1.5934, 1.6026, 0, 0, 0, 0, 0, 0, 0, 0, 0, 4.6647, 3.4872, 3.2676, 2.88, 0, 2.5262, 3.282, 3.6688, 0, 0, 0, 3.6141, 3.3055, 3.0881, 2.44, 2.1334, 0, 2.199, 1.9105, 1.8405, 1.6877, 1.4428, 1.2127, 1.0789, 1.0239, 0.9537, 0.8824, 0.8227, 0.7751, 0, 0, 0.7592, 0.5368, 0.4992, 0.5832, 0.5703, 0.4984, 0.4232, 0.412]
         },
         {
           "type": "double",
@@ -93,12 +93,12 @@
         {
           "type": "double",
           "attributes": {},
-          "value": [0, 0, 0, 0, 0, 0, 0, 0, 0, 0, 0, 0, 0, 0, 0, 0, 0, 0, 0, 1, 1, 1.0012, 1.0053, 1.0126, 1.0126, 1.0251, 1.0398, 1.0398, 1.0398, 1.0398, 1.0398, 1.0398, 1.0398, 1.0579, 1.0741, 1.0898, 1.1062, 1.1062, 1.1062, 1.1062, 1.1062, 1.1062, 1.1062, 1.1062, 1.1062, 1.1062, 1.1153, 1.1232, 1.1315, 1.1397, 1.1397, 1.1473, 1.1546, 1.162, 1.162, 1.162, 1.162, 1.1673, 1.1724, 1.1774, 1.1821, 1.1868, 1.1868, 1.1916, 1.1959, 1.2002, 1.2043, 1.2081, 1.2115, 1.2148, 1.2181, 1.2213, 1.2245, 1.2275, 1.2304, 1.2304, 1.2304, 1.2329, 1.2347, 1.2364, 1.2383, 1.2402, 1.2421, 1.2438, 1.2456, 1.2473, 1.2489, 1.2501, 1.2514, 1.2514, 1.2514, 1.2514, 1.2526, 1.2526, 1.2526, 1.2535, 1.2545, 1.2545, 1.2553, 1.256, 1.2567, 1.2574, 1.2574, 1.2574, 1.258, 1.2585, 1.2589, 1.2594, 1.2598, 1.2602, 1.2606, 1.2609, 1.2613, 1.2613, 1.2613, 1.2613, 1.2615, 1.2618, 1.262, 1.2622]
+          "value": [0, 0, 0, 0, 0, 0, 0, 0, 0, 0, 0, 0, 0, 0, 0, 0, 0, 0, 0, 1, 1, 1, 1, 1, 1, 1.8037, 2.5896, 2.5896, 2.5896, 2.5896, 2.5896, 2.5896, 2.5896, 4.6152, 6.3398, 7.9332, 9.5358, 9.5358, 9.5358, 9.5358, 9.5358, 9.5358, 9.5358, 9.5358, 9.5358, 9.5358, 14.2005, 17.6877, 20.9553, 23.8353, 23.8353, 26.3615, 29.6435, 33.3124, 33.3124, 33.3124, 33.3124, 36.9265, 40.232, 43.3201, 45.76, 47.8934, 47.8934, 50.0925, 52.003, 53.8435, 55.5312, 56.974, 58.1867, 59.2656, 60.2894, 61.2432, 62.1256, 62.9483, 63.7233, 63.7233, 63.7233, 64.4825, 65.0193, 65.5185, 66.1016, 66.672, 67.1703, 67.5936, 68.0056, 68.3834, 68.7461, 69.0057, 69.2685, 69.2685, 69.2685, 69.2685, 69.5411, 69.5411, 69.5411, 69.7188, 69.8879, 69.8879, 70.0361, 70.1667, 70.2841, 70.388, 70.388, 70.388, 70.4598, 70.5263, 70.5821, 70.6371, 70.6851, 70.7272, 70.7665, 70.8078, 70.8482, 70.8482, 70.8482, 70.8482, 70.8741, 70.8983, 70.9189, 70.9379]
         },
         {
           "type": "double",
           "attributes": {},
-          "value": [0, 0, 0, 0, 0, 0, 0, 0, 0, 0, 0, 0, 0, 0, 0, 0, 0, 0, 0, 0.01, 0.01, 0.0099, 0.0099, 0.0098, 0.0096, 0.0095, 0.0094, 0.0092, 0.009, 0.0087, 0.0085, 0.0082, 0.008, 0.0079, 0.0078, 0.0078, 0.0077, 0.0075, 0.0072, 0.007, 0.0068, 0.0066, 0.0064, 0.0062, 0.006, 0.0058, 0.0057, 0.0056, 0.0055, 0.0054, 0.0052, 0.0051, 0.005, 0.005, 0.0048, 0.0047, 0.0045, 0.0044, 0.0043, 0.0042, 0.0042, 0.0041, 0.0039, 0.0039, 0.0038, 0.0037, 0.0036, 0.0036, 0.0035, 0.0034, 0.0033, 0.0033, 0.0032, 0.0031, 0.0031, 0.003, 0.0029, 0.0028, 0.0027, 0.0027, 0.0026, 0.0025, 0.0025, 0.0024, 0.0023, 0.0023, 0.0022, 0.0022, 0.0021, 0.002, 0.002, 0.0019, 0.0019, 0.0018, 0.0017, 0.0017, 0.0017, 0.0016, 0.0016, 0.0015, 0.0015, 0.0014, 0.0014, 0.0013, 0.0013, 0.0013, 0.0012, 0.0012, 0.0012, 0.0011, 0.0011, 0.0011, 0.001, 0.001, 0.001, 0.0009, 0.0009, 0.0009, 0.0008, 0.0008]
+          "value": [0, 0, 0, 0, 0, 0, 0, 0, 0, 0, 0, 0, 0, 0, 0, 0, 0, 0, 0, 0.01, 0.01, 0.01, 0.01, 0.01, 0.01, 0.018, 0.0259, 0.0259, 0.0259, 0.0259, 0.0259, 0.0259, 0.0259, 0.0462, 0.0634, 0.0793, 0.0954, 0.0954, 0.0954, 0.0954, 0.0954, 0.0954, 0.0954, 0.0954, 0.0954, 0.0954, 0.142, 0.1769, 0.2096, 0.2384, 0.2384, 0.2636, 0.2964, 0.3331, 0.3264, 0.3264, 0.3264, 0.3629, 0.3963, 0.4275, 0.4476, 0.4651, 0.4651, 0.4877, 0.5073, 0.5262, 0.5435, 0.5583, 0.5616, 0.5651, 0.5687, 0.5716, 0.5813, 0.5904, 0.599, 0.599, 0.599, 0.6074, 0.6133, 0.6188, 0.6253, 0.6116, 0.6012, 0.59, 0.5799, 0.5849, 0.5756, 0.5595, 0.5392, 0.5392, 0.5392, 0.5392, 0.5171, 0.4904, 0.4626, 0.4417, 0.4221, 0.4221, 0.3996, 0.3784, 0.3562, 0.3341, 0.3118, 0.2918, 0.2748, 0.2578, 0.241, 0.2247, 0.2088, 0.1931, 0.1942, 0.1953, 0.1792, 0.1666, 0.1546, 0.14, 0.1261, 0.1136, 0.1026, 0.0917]
         },
         {
           "type": "double",

diff --git a/README.md b/README.md
@@ -7,7 +7,7 @@
 
 <!-- badges: start -->
 
-[![DOI](https://zenodo.org/badge/58613738.svg)](https://zenodo.org/badge/latestdoi/58613738) [![CRAN status](https://www.r-pkg.org/badges/version/epicrop)](https://CRAN.R-project.org/package=epicrop) [![Code Coverage: 62%](https://img.shields.io/badge/code_coverage-62%25-green)](#code-coverage)
+[![DOI](https://zenodo.org/badge/58613738.svg)](https://zenodo.org/badge/latestdoi/58613738) [![CRAN status](https://www.r-pkg.org/badges/version/epicrop)](https://CRAN.R-project.org/package=epicrop) [![Code Coverage: 63%](https://img.shields.io/badge/code_coverage-63%25-green)](#code-coverage)
 
 <!-- badges: end -->
 
@@ -77,45 +77,45 @@ Once you have the weather data, run the model for any of the five rice diseases 
 bb_sim <- bacterial_blight(wth, emergence = "2000-07-01")
 
 bb_sim
-#>      simday      dates     sites      latent infectious  removed senesced
-#>       <int>     <IDat>     <num>       <num>      <num>    <num>    <num>
-#>   1:      1 2000-07-01 100.00000 0.000000000 0.00000000 0.000000        0
-#>   2:      2 2000-07-02 100.00000 0.000000000 0.00000000 0.000000        0
-#>   3:      3 2000-07-03 100.00000 0.000000000 0.00000000 0.000000        0
-#>   4:      4 2000-07-04 100.00000 0.000000000 0.00000000 0.000000        0
-#>   5:      5 2000-07-05 100.00000 0.000000000 0.00000000 0.000000        0
-#>  ---                                                                     
-#> 116:    116 2000-10-24  98.73873 0.001023389 0.09071700 1.169533        0
-#> 117:    117 2000-10-25  98.73847 0.001073575 0.08789778 1.172557        0
-#> 118:    118 2000-10-26  98.73822 0.001112784 0.08518256 1.175487        0
-#> 119:    119 2000-10-27  98.73799 0.001117908 0.08256570 1.178326        0
-#> 120:    120 2000-10-28  98.73777 0.001118451 0.08003709 1.181078        0
-#>           rateinf  rlex    rtransfer    rremoved rgrowth rsenesced diseased
-#>             <num> <num>        <num>       <num>   <num>     <num>    <num>
-#>   1: 0.0000000000     0 0.0000000000 0.000000000       0         0 0.000000
-#>   2: 0.0000000000     0 0.0000000000 0.000000000       0         0 0.000000
-#>   3: 0.0000000000     0 0.0000000000 0.000000000       0         0 0.000000
-#>   4: 0.0000000000     0 0.0000000000 0.000000000       0         0 0.000000
-#>   5: 0.0000000000     0 0.0000000000 0.000000000       0         0 0.000000
-#>  ---                                                                       
-#> 116: 0.0000000000     0 0.0002558474 0.003119350       0         0 1.261273
-#> 117: 0.0002548630     0 0.0002046779 0.003023900       0         0 1.261528
-#> 118: 0.0002539244     0 0.0002147149 0.002929926       0         0 1.261782
-#> 119: 0.0002276806     0 0.0002225568 0.002839419       0         0 1.262010
-#> 120: 0.0002241249     0 0.0002235816 0.002752190       0         0 1.262234
-#>         intensity     lat      lon
-#>             <num>   <num>    <num>
-#>   1: 0.0000000000 14.6774 121.2556
-#>   2: 0.0000000000 14.6774 121.2556
-#>   3: 0.0000000000 14.6774 121.2556
-#>   4: 0.0000000000 14.6774 121.2556
-#>   5: 0.0000000000 14.6774 121.2556
-#>  ---                              
-#> 116: 0.0009282602 14.6774 121.2556
-#> 117: 0.0009002697 14.6774 121.2556
-#> 118: 0.0008732180 14.6774 121.2556
-#> 119: 0.0008468143 14.6774 121.2556
-#> 120: 0.0008212551 14.6774 121.2556
+#>      simday      dates     sites     latent infectious  removed senesced
+#>       <int>     <IDat>     <num>      <num>      <num>    <num>    <num>
+#>   1:      1 2000-07-01 100.00000 0.00000000   0.000000  0.00000        0
+#>   2:      2 2000-07-02 100.00000 0.00000000   0.000000  0.00000        0
+#>   3:      3 2000-07-03 100.00000 0.00000000   0.000000  0.00000        0
+#>   4:      4 2000-07-04 100.00000 0.00000000   0.000000  0.00000        0
+#>   5:      5 2000-07-05 100.00000 0.00000000   0.000000  0.00000        0
+#>  ---                                                                    
+#> 116:    116 2000-10-24  29.15183 0.08170330   4.664816 66.10165        0
+#> 117:    117 2000-10-25  29.12594 0.06621597   4.135862 66.67199        0
+#> 118:    118 2000-10-26  29.10166 0.05017370   3.677822 67.17034        0
+#> 119:    119 2000-10-27  29.08112 0.07071203   3.254602 67.59356        0
+#> 120:    120 2000-10-28  29.06214 0.08969842   2.842615 68.00555        0
+#>         rateinf  rlex  rtransfer  rremoved rgrowth rsenesced diseased intensity
+#>           <num> <num>      <num>     <num>   <num>     <num>    <num>     <num>
+#>   1: 0.00000000     0 0.00000000 0.0000000       0         0  0.00000 0.0000000
+#>   2: 0.00000000     0 0.00000000 0.0000000       0         0  0.00000 0.0000000
+#>   3: 0.00000000     0 0.00000000 0.0000000       0         0  0.00000 0.0000000
+#>   4: 0.00000000     0 0.00000000 0.0000000       0         0  0.00000 0.0000000
+#>   5: 0.00000000     0 0.00000000 0.0000000       0         0  0.00000 0.0000000
+#>  ---                                                                           
+#> 116: 0.00000000     0 0.03924522 0.5831654       0         0 70.84817 0.1400221
+#> 117: 0.02589723     0 0.04138456 0.5703382       0         0 70.87406 0.1260825
+#> 118: 0.02427647     0 0.04031874 0.4983593       0         0 70.89834 0.1135557
+#> 119: 0.02053833     0 0.00000000 0.4232197       0         0 70.91888 0.1026128
+#> 120: 0.01898639     0 0.00000000 0.4119870       0         0 70.93786 0.0916507
+#>          lat      lon
+#>        <num>    <num>
+#>   1: 14.6774 121.2556
+#>   2: 14.6774 121.2556
+#>   3: 14.6774 121.2556
+#>   4: 14.6774 121.2556
+#>   5: 14.6774 121.2556
+#>  ---                 
+#> 116: 14.6774 121.2556
+#> 117: 14.6774 121.2556
+#> 118: 14.6774 121.2556
+#> 119: 14.6774 121.2556
+#> 120: 14.6774 121.2556
 ```
 
 Lastly, you can visualise the result of the model run.
@@ -157,7 +157,7 @@ ggplot(
 
 
 ```
-#> epicrop Coverage: 62.30%
+#> epicrop Coverage: 63.31%
 #> R/build_epicrop_emergence.R: 0.00%
 #> R/fetch_epicrop_weather_list.R: 0.00%
 #> R/run_epicrop_model.R: 0.00%
@@ -165,7 +165,7 @@ ggplot(
 #> R/interpolation.R: 77.19%
 #> R/get_wth.R: 81.16%
 #> R/format_wth.R: 93.15%
-#> R/seir.R: 95.63%
+#> R/seir.R: 94.57%
 #> R/leaf_wetness.R: 97.22%
 #> R/audpc.R: 98.28%
 #> R/disease_models.R: 100.00%
